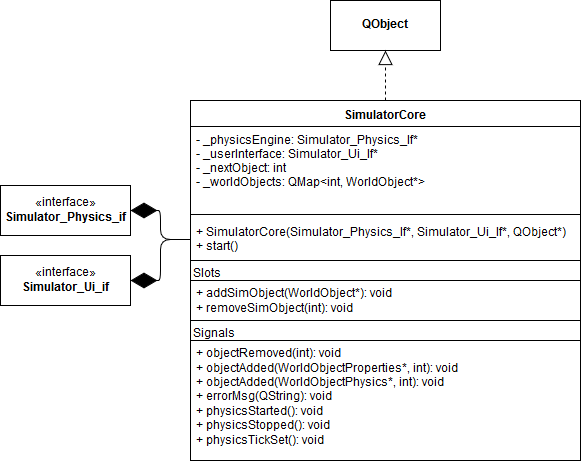
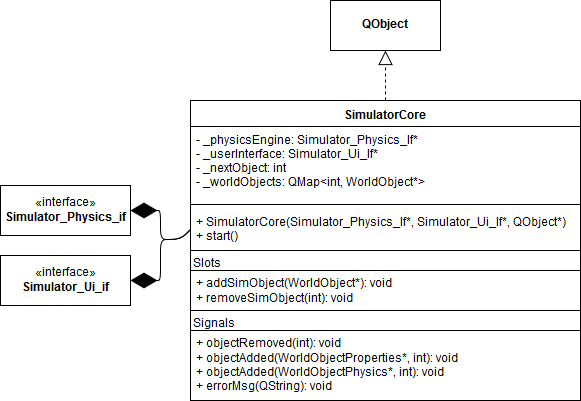
Added UML diagrams for the 4 major events Updated UML for physics and simulator core

Changed region(s): [[0.0, 0.2095, 1.0, 1.0], [0.5577, 0.0299, 0.7435, 0.1796], [0.0, 0.7481, 0.031, 0.7781]]

diff --git a/Documentation/Design Docs/Latex Docs/design.tex b/Documentation/Design Docs/Latex Docs/design.tex
@@ -230,7 +230,8 @@ The core application itself has minimum communication through ROS, it mainly sta
  \section{Architecture and System Design} 	
  \subsection{Design Decisions}
   	The simulation underwent a number of design changes during its development. This section will discuss what drove the major design decisions associated with this project.
- \subsubsection*{UI}
+ \subsubsection*{User Experience}
+ \subsubsection*{User Interface}
  	When building a cross-platform user interface in C++, there are only a few options available. When discussing this, the following ideas were brought up: Pure OpenGL, Qt QML, and Qt Widgets. The final decision was Qt Widgets, which will be discussed below.
  	
  	A pure OpenGL solution was not selected due mainly due to the difficulty of implementation and the amount of work that would have to go into a UI of that nature. If using Qt were not an option, pure OpenGL may have been selected; however, having the Qt library available makes it hard to justify the amount of extra development that a pure OpenGL solution would add.
@@ -246,8 +247,6 @@ The core application itself has minimum communication through ROS, it mainly sta
  	One of the main failings of STDR was its lack of a physics engine. It was decided early on that a known physics engine should be used, or one should be written for this project so that at least basic collision detection could be simulated.
  	
  	A number of different engines were investigated, including Box2D and Chipmunk2D. In the end, Box2D was chosen because it is simple and lightweight while also providing all of the functionality necessary for this simulator. Other physics engines would have been too bulky or difficult to use, and writing a custom physics engine would have extended the development considerably and likely would have resulted in worse performance.
- 
- \subsection{UX}
 
 %\section{Notable Algorithms} 
  %\subsubsection{Importing Images}
@@ -446,7 +445,8 @@ After construction, shapes and children models can be added and removed with the
  \end{enumerate}
  \hrule
   \subsubsection*{World Object Component Plugin Interface}
-  This interface defines how plugins containing World Object Components should look. Plugins are loaded using the Qt Plugin Loader; information on the plugin system can be found at \href{http://doc.qt.io/qt-5/plugins-howto.html#the-low-level-api-extending-qt-applications}{http://doc.qt.io/qt-5/plugins-howto.html}. The only purpose of these plugins is to create instances of the World Object Component they contain. These instances will be cloned or added into World Objects.
+  This interface defines how plugins containing World Object Components should look. Plugins are loaded using the Qt Plugin Loader; information on the plugin system can be found at \href{http://doc.qt.io/qt-5/plugins-howto.html#the-low-level-api-extending-qt-applications}{http://doc.qt.io/qt-5/plugins-howto.html}. 
+  The only purpose of these plugins is to create instances of the World Object Component they contain. These instances will be cloned or added into World Objects.
  \begin{figure}
  	\begin{center}
  	\includegraphics[scale=0.5]{./images_design/uml/ComponentPlugin}
@@ -464,7 +464,13 @@ After construction, shapes and children models can be added and removed with the
  \end{itemize}
  
  \subsubsection*{World Object Added}
- 	World Object additions are generally initiated by the UI. When the user wants to add an Object to the simulation, the UI signals to the core indicating what Object should be added. The core copies the World Object and stores the copy with an index. The Object and its index are sent back to the UI and Physics engine wrapped in interfaces which can be used to access methods of the new World Object. More information on these interfaces can be found in the World Object class details below.
+ 	World Object additions are generally initiated by the UI. When the user wants to add an Object to the simulation, the UI signals to the core indicating what Object should be added. The core copies the World Object and stores the copy with an index. The Object and its index are sent back to the UI and Physics engine wrapped in interfaces which can be used to access methods of the new World Object.
+ 	
+ 	\begin{figure}[h]
+ 		\centering
+ 		\includegraphics[width=\textwidth]{./images_design/uml/event_addObject}
+ 		\caption{Data flow when a new object is added to the simulation\label{uml:addevent}}
+ 	\end{figure}
  	
  	When the Physics engine receives a new World Object, it passes the b2World object
 of the simulation to it so that the Object can add bodies and shapes to the physics engine.
@@ -474,6 +480,12 @@ of the simulation to it so that the Object can add bodies and shapes to the phys
  \subsubsection*{World Object Removed}
  The process of removing a World Object is very similar to that of creating one. The UI signals to the core that the user would like to remove an Object; this Object is identified by the index that was assigned when it was added to the simulation. The core then signals back to the UI and Physics that this Object is removed and deletes the associated Object from the heap.
  
+ 	\begin{figure}[h]
+ 		\centering
+ 		\includegraphics[width=\textwidth]{./images_design/uml/event_removeObject}
+ 		\caption{Data flow when an object is removed from the simulation\label{uml:removeevent}}
+ 	\end{figure} 
+ 
  When the Physics engine receives this signal, it passes the b2World to the Object again so that the Object can remove any Box2D bodies and joints that it created.
  
  When the UI receives this signal, it un-caches the Object's list of Properties and notifies the world view widget to stop drawing the Models associated with the object.
@@ -481,10 +493,22 @@ of the simulation to it so that the Object can add bodies and shapes to the phys
  \subsubsection*{World Ticked}
  World ticks are generated by the physics engine on a timer. The default tick rate is 100 per second, and each tick moves the simulation forward $\frac{1}{100}$ of a second.
  
- When the world tick signal is received by a World Object, it checks the location of its Box2D body, and, if it moved, updates its Model, causing a redraw in the world view widget. Likewise, when a Component of an Object receives this signal, it may also update its own Model. Additionally, Components can take this moment to modify the simulation by applying forces on their Box2D bodies.
+ When a Component of an Object receives this signal, it may update its own Model, which would redraw the screen with the change. Additionally, Components can take this moment to modify the simulation by applying forces on their Box2D bodies or send messages to external applications through ROS.
+ 
+  	\begin{figure}[h]
+ 		\centering
+ 		\includegraphics[width=\textwidth]{./images_design/uml/event_tick}
+ 		\caption{Data flow of a simulation tick\label{uml:tickevent}}
+ 	\end{figure}
  
  \subsubsection*{External Communication}
- The most common example of external communication is robot control code signaling that wheel velocities should change. When World Object Components receive an external communication of this nature, they can apply forces on their associated Box2D body to affect the simulation. This change will be applied on the next tick to happen after the force is applied.
+ The most common example of external communication is robot control code signaling that wheel velocities should change. When World Object Components receive an external communication of this nature, they can apply forces on their associated Box2D body to affect the simulation and update their models. This change will be applied on the next tick to happen after the force is applied.
+ 
+  	\begin{figure}[h]
+ 		\centering
+ 		\includegraphics[width=\textwidth]{./images_design/uml/event_data}
+ 		\caption{Data flow of a ROS message being received\label{uml:dataevent}}
+ 	\end{figure}
  
 \subsection{Simulator Core}
 
@@ -494,26 +518,29 @@ of the simulation to it so that the Object can add bodies and shapes to the phys
 \end{itemize}
 
 \subsubsection*{Overview}
-The simulator core is, as the name suggests, the main piece of the simulation. It organizes and marshals the other parts of the system and ensures that data flows in the correct paths. The main purpose of the simulator core is to connect the UI to the Physics engine and keep them synchronized so that what's shown on screen reflects what's simulated in the physics engine. See UML Figure \ref{uml:simcore} for a list of data members and functions in the simulator core.
+The simulator core is, as the name suggests, the main piece of the simulation. It organizes the other parts of the system and ensures that data flows in the correct paths. The main purpose of the simulator core is to connect the UI to the Physics engine and keep them synchronized so that what's shown on screen reflects what's simulated in the physics engine. See UML Figure \ref{uml:simcore} for a list of data members and functions in the simulator core. The specific data connections set up by the core are shown in Figure \ref{uml:dataflow_simcore}.
 
  
- \begin{figure}
+ \begin{figure}[h]
  	\begin{center}
  	\includegraphics[scale=0.5]{./images_design/uml/SimCore}
  	\caption{UML of Simulator Core\label{uml:simcore}}
  	\end{center}
  \end{figure}
 
-\subsubsection*{Data Flow Diagram}
-
- \begin{figure}
+ \begin{figure}[h]
  	\begin{center}
  	\includegraphics[scale=0.5]{./images_design/uml/DataFlow_simcore}
- 	\caption{Data Flow in Simulator Core\label{uml:dataflow_simcore}}
+ 	\caption{Data connections created by the Simulator Core\label{uml:dataflow_simcore}}
  	\end{center}
  \end{figure} 
 
 \subsubsection*{Design Details}
+\begin{itemize}
+	\item World Objects are assigned an unsigned index when they are added. These indexes count up from 1. 0 can safely be used elsewhere as a placeholder for None.
+	\item Added World Objects are cloned, so the original copy must be deleted correctly wherever it exists.
+	\item The Simulator\_Ui\_If* and Simulator\_Physics\_If* that the are used to construct the core will be deleted by the core.
+\end{itemize}
 
 \subsection{Physics Engine}
 
@@ -526,7 +553,7 @@ The simulator core is, as the name suggests, the main piece of the simulation. I
 \subsubsection*{Component  Overview}
 The physics engine is responsible for updating the world state at regular intervals. When objects are first added to the world, they should be initialized in the physics engine, and until they are removed from the world they should be simulated along with the rest of the objects. The physics engine should be capable of starting, stopping, changing rate, and adding or removing an object while in any state. The current physics engine is the 'BasicPhysics' object found in UML Figure \ref{uml:physics}. The interface that it follows is found in UML Figure \ref{uml:phys_if}
 
- \begin{figure}
+ \begin{figure}[h]
  	\begin{center}
  	\includegraphics[scale=0.5]{./images_design/uml/BasicPhysics}
  	\caption{UML of Physics Engine\label{uml:physics}}
@@ -543,6 +570,10 @@ The physics engine is responsible for updating the world state at regular interv
  \end{figure}
 
 \subsubsection*{Design Details}
+\begin{enumerate}
+	\item Two things happen on every tick: The world updates (b2World::Step), then all world objects are notified of the tick
+	\item The QTimer is started and stopped with QTimer::start, QTimer::stop. This means that if processing a tick takes longer than the set interval, the timer events will start to stack up. It may be necessary to look at a different method of ticking to prevent this.
+\end{enumerate}
 
 \subsection{User Interface}
  \begin{figure}
